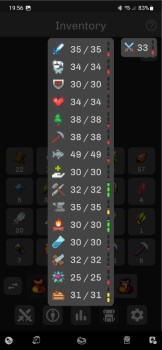
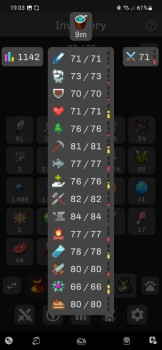
Finish up idle iktah text

diff --git a/_drafts/2023-10-27-idle-iktah-android-game.md b/_drafts/2023-10-27-idle-iktah-android-game.md
@@ -1,0 +1,103 @@
+---
+title: "Idle Iktah: An Android idle game that has become my obsession"
+author: Jake Lee
+layout: post
+image: /assets/images/2023/oct-games-banner.png
+tags:
+    - Android
+    - Gaming
+---
+
+Every couple of months, I publish an article with a few games I've enjoyed. This month is a little different because... I can't stop playing [Idle Iktah](https://play.google.com/store/apps/details?id=games.grounded.idleiktah), I haven't touched anything else! This is partially a review, partially a love letter.
+
+----
+
+**Update 27th Oct:** This entire review was written after playing the game for just 3 days (v1.0.0), and [published on Reddit](https://www.reddit.com/r/IdleIktah/comments/175out7/a_very_positive_review_of_the_game_after_3_days/). 2 weeks later, my feelings on it have only grown more positive! At the time of the review my stats were all mid-30s, now they are all mid-70s. Once they're all 99 I'll finally be able to escape!
+
+I'm happy to confirm that the game continues to get deeper and deeper as you progress, and the developer is extremely responsive on [Discord](https://discord.com/invite/nEp3rhmPTC). For example, a few feature suggestions in my original review have already been added to the game. It's also been a great help searching the Discord for more obscure items / quests.
+
+The game is [available on iOS](https://apps.apple.com/us/app/idle-iktah/id1631764038) [and Android](https://play.google.com/store/apps/details?id=games.grounded.idleiktah).
+
+---
+
+[Idle Iktah](https://play.google.com/store/apps/details?id=games.grounded.idleiktah) is a dangerous game: It's like RuneScape, but singleplayer and idle. Uh oh.
+
+## Review
+
+I spotted this game from an [r/incremental_games post](https://www.reddit.com/r/incremental_games/comments/173tjq0/idle_iktah_an_idle_rpg_set_in_the_pacific/), and I've been playing it almost constantly since then. It's RuneScape-inspired, but with plenty of different skills, different mechanics, different items, etc. 
+
+The basic gameplay is essentially choosing a skill, choosing what action / item to use, then pressing "Start". There are also battles, with critical hits, drop rates, food, tomes, etc. Whilst this gameplay is relatively simple, the very clean and focused UI as well as balanced game design allows for some deeply satisfying gameplay loops. Additionally, once you understand the UI, you can look at the XP / effects of any action even whilst your actions are happening in the background. 
+
+However, what really makes it stand out is how expertly new content is drip-fed to the player. I've tried Melvor Idle before, and it was all a bit overwhelming and "online", which just isn't what I'm interested in. Iktah cleverly only shows you the next couple of "locked" items / areas for each skill, so you never feel like you've barely started the game, even 10 minutes in.
+
+Speaking of skills, even these are not all revealed at the start. Whilst you do have access to "gathering" and "crafting" skills early on, multiple additional ones appear unexpectedly just as you're starting to finish one part of the content! Unlike many idle games, where you're just waiting for the chance to click the button / upgrade the machine / etc, Idle Iktah has a much more complex gameplay loop. Every skill has it's own unlocks and levels, with synergy between them, just like RuneScape. For example high fishing will catch better fish, which give more cooking xp, which help fighting harder monsters, etc.
+
+Whilst the discovery aspect of the game is excellently implemented, I am also very impressed by the complexity of the interactions between the skills. The complex relationships between skills means the game manages to catch the "lightning in the bottle" feeling that games like RuneScape and Skyrim gave me: having multiple things I am excited to do ASAP. 
+
+Instead of waiting until I have enough coins to upgrade something, I can mine some ore so I can smelt a bar so I can smith a pickaxe head so I can craft a pickaxe so I can mine ore faster. Except uh oh, that requires a higher crafting level! Time to hunt some monsters so I can get some leather so I can make some bags so I can.... you get the idea. 
+
+Just like with RuneScape, you'll often find yourself doing actions in bulk since they are good XP. For example, making 100 wooden chairs for the Carpentry XP. Unlike RuneScape though, even junk items have plenty of uses: They can be traded with traders that appear from time to time for rare shells (which are used to buy items *from* the traders), or they can be broken down into their "core" for use in Enchanting. 
+
+Iktah is very intentionally offline-only, and even the "Community" skill refers to your in-game local area! This is the only kind of game I enjoy, and I'm really happy the developer hasn't implemented any "clans", usually used to encourage players to spend more real money.
+
+I've been playing Idle Iktah pretty obsessively the last few days, and could write paragraphs more about it, but the final positive is the helpful notifications. Notifications can be customised for level-ups, new areas, new traders etc, and it's a great way to leave the game in the background until a bulk crafting job is done. Inside the game, crafted items / level-ups appear "over" whatever window you have open, ensuring you always know what is going on, even if you are deep inside a submenu.
+
+Idle Iktah has pretty good offline progress (50% unless doubling with ads for up to 24hr), however I had it open a lot and the battery drain is tiny, far less than a browser / video / most games.
+
+Finally, there is a [Discord](https://discord.com/invite/nEp3rhmPTC) (350+ members, friendly), [Twitter](https://twitter.com/idleiktah) (unused), and [Subreddit](https://www.reddit.com/r/IdleIktah/) (quiet, patch notes only).
+
+In terms of improvements, I'd love to see:
+
+* Statistics on how many X I've killed / created.
+* ~~The quest screen could show how far towards the unlock criteria (e.g. 4/10 kills).~~ Added!
+* ~~A "time left" for long jobs, to avoid me having to keep doing mental multiplication!~~ Added!
+* The ability to rename bags for easier categorisation.
+* More detailed help for the equipment screen. For example, my sword has a "sun" enchant on it... what does that do!?
+
+## Monetisation
+
+There are pretty standard optional adverts when you open the game, allowing you to double your offline earnings.
+
+Additionally, there is a shop where perks (e.g. XP booster, tomes for combat, etc) can be purchased, but none of them feel too overpowered. All are essentially time skips, and can be obtained through normal gameplay anyway. They're quite expensive, from £2 for 50x double attach speed tomes to £8 for 25x Master potion (1hr double XP). 
+
+I purchased a permanent advert removal for £5. This doubles all offline earnings (as if you'd watched an ad), and provides a daily Mastery potion, but I primarily purchased it to support the developer's excellent work.
+
+## Tips
+
+As mentioned, the game does an amazing job of giving you information and guidance, so I won't mention anything covered within the game. I'd also recommend checking [the Discord](https://discord.com/invite/nEp3rhmPTC) for more.
+
+* **Always make sure you are doing *something***. Whilst figuring out a complex crafting process, have some woodcutting happening in the background.
+* **Perform as many operations on an item as you can**. The more processes items go through, the more likely they are to earn you high XP or be worth a lot to traders. For example, instead of selling wood, process it into planks then furniture first. Or, instead of selling a gathered resource, make a potion that can then be used for an enchant. This takes much longer, but earns you more XP and resources than instantly trading would.
+* **Prioritise completing quests**. The tasks (accessible via the skill select menu) give great rewards, and often unlock new content.
+* **Turn potion autodrink on**. Potions can be set to autodrink via the "infinity" symbol when opening them in the inventory. This only triggers when you are actively training that skill, and you have actively drunk the first potion. It's safe to leave it on for all potions you want to use.
+* **Turquoise can be used to double rare shells**. At level 50ish Alchemy, you can create a "Headhunter potion" for 1 rare shell & 1 turquoise. Whilst turquoise sells to traders for 0.15 shells, a headhunter potion sells for 2 shells! This means you can essentially convert all turquoise into rare shells by creating the potion and selling.
+* **Inventory space is tight**. You'll probably learn this very early on, but inventory space is the main enemy until you can craft big bags! Some ways to utilise it as efficiently as possible are:
+    * **Be organised**. If you have junk everywhere, you'll never have any space. Use additional bags, have a system. For example, I use "Main bag", "Fishing / woodcutting", "Mining", "Potions / to sell".
+    * **Train crafting**. Crafting lets you create additional mini-inventories, and eventually (Lev 20-30+) you can create specialised inventories (e.g. for rings or food). I'm hoping there's plenty more of these to unlock.
+    * **Progress things**. Instead of leaving 30 level 1 fish around, cook them and use them in combat! It tidies up your inventory without having to delete the items. This applies to crafting ingredients, ores, fish, wood, etc.
+* **Items have rarities**. If you open an item in your inventory, some may have a coloured border. This gives a good indicator of whether an item actually matters, which can be very hard to work out when it seems to have no use. For example, a "Grasshopper" has no border, so it's probably fine to just use or trade it. However, an "Ancient coin" has an orange border, so I should hang onto it until I work out what it's for. The rarity seems to be the standard scale:
+    * Common (White)
+    * Uncommon (Green)
+    * Rare (Blue)
+    * Epic (Purple)
+    * Legendary (Orange)
+* **Gather overnight**. Perhaps obvious, but don't do any crafting overnight in case you run out of materials. Do tasks like fishing or woodcutting that have no limits.
+* **Everything has value**. All traders will buy all items (except the very basic resources). However, cheap items like "Bluegill" fish will require 834(!) in exchange for a single rare shell! As such, items should never be deleted if possible, and trading in resources you have no use for (e.g. wooden chairs) is a good way to earn shells for the trader's items.
+* **You are semi-immortal**. So long as you don't get one-hit, you can survive any damage since your character can eat multiple fish per turn. This means a fish that heals 1 is just a useful as one that heals 10, so long as you don't run out!
+* **Hang on to rarer things**. Since you level skills separately, you'll pretty often gain a non-common item that seems to have no purpose. Hang onto it, you'll wish you had it later on!
+* **Claim Mastery Potion ASAP**. If you've paid for the ad-free experience, your Mastery Potion is available every 20 hours. This timer starts when you claim it, so make sure to do this as soon as it is available.
+* **Partner / trader preview is scrollable**. If you use a dugout to force a specific trader to appear, you can see 4 of their items as a preview. This can actually be scrolled down to see ALL their items!
+
+## Screenshots
+
+There are 12(!) skills in the game, plus combat, so the screenshots below only show a little of the game! The skills generally work similarly, so the Crafting screenshot is representative.
+
+| Crafting Skill | Battle | Skills (Inventory in background) |
+| --- | --- | --- |
+| [![](/assets/images/2023/oct-iktah-crafting-thumbnail.jpg)](/assets/images/2023/oct-iktah-crafting.jpg) | [![](/assets/images/2023/oct-iktah-combat-thumbnail.jpg)](/assets/images/2023/oct-iktah-combat.jpg) | [![](/assets/images/2023/oct-iktah-skills-thumbnail.jpg)](/assets/images/2023/oct-iktah-skills.jpg)|  
+
+| Community Skill | Teachings | Outfits |
+| --- | --- | --- |
+| [![](/assets/images/2023/oct-iktah-community-thumbnail.jpg)](/assets/images/2023/oct-iktah-community.jpg) | [![](/assets/images/2023/oct-iktah-teachings-thumbnail.jpg)](/assets/images/2023/oct-iktah-teachings.jpg) | [![](/assets/images/2023/oct-iktah-outfits-thumbnail.jpg)](/assets/images/2023/oct-iktah-outfits.jpg) 
+
+One last time, here's the Play Store link for Idle Iktah: https://play.google.com/store/apps/details?id=games.grounded.idleiktah

diff --git a/_drafts/2023-10-20-oct-android-game-reviews.md b/_drafts/2023-10-20-oct-android-game-reviews.md
@@ -1,5 +1,5 @@
 ---
-title: "3 indie Android games I've loved recently: Idle Iktah 📲"
+title: "Oct Android games 📲"
 author: Jake Lee
 layout: post
 image: /assets/images/2023/oct-games-banner.png
@@ -7,89 +7,6 @@ tags:
     - Android
     - Gaming
 ---
-
-intro
-
-The games are in descending order of "fun", and might contain mild spoilers:
-
-## #1: [Idle Iktah](https://play.google.com/store/apps/details?id=games.grounded.idleiktah)
-
-Idle Iktah is a dangerous game: It's like RuneScape, but singleplayer and idle. Uh oh.
-
-### Review
-
-I spotted this game from an [r/incremental_games post](https://www.reddit.com/r/incremental_games/comments/173tjq0/idle_iktah_an_idle_rpg_set_in_the_pacific/) a few days ago, and I've been playing it almost constantly since then. It's RuneScape-inspired, but with plenty of different skills, different mechanics, different items, etc. 
-
-The basic gameplay is essentially choosing a skill, choosing what action / item to use, then pressing "Start". There are also battles, with critical hits, drop rates, food, tomes, etc. Whilst this gameplay is relatively simple, the very clean and focused UI as well as balanced game design allows for some deeply satisfying gameplay loops. Additionally, once you understand the UI, you can look at the XP / effects of any action even whilst your actions are happening in the background. 
-
-However, what really makes it stand out is how expertly new content is drip-fed to the player. I've tried Melvor Idle before, and it was all a bit overwhelming and "online", which just isn't what I'm interested in. Iktah cleverly only shows you the next couple of "locked" items / areas for each skill, so you never feel like you've barely started the game, even 10 minutes in.
-
-Speaking of skills, even these are not all revealed at the start. Whilst you do have access to "gathering" and "crafting" skills early on, multiple additional ones appear unexpectedly just as you're starting to finish one part of the content! Unlike many idle games, where you're just waiting for the chance to click the button / upgrade the machine / etc, Idle Iktah has a much more complex gameplay loop. Every skill has it's own unlocks and levels, with synergy between them, just like RuneScape. For example high fishing will catch better fish, which give more cooking xp, which help fighting harder monsters, etc.
-
-Whilst the discovery aspect of the game is excellently implemented, I am also very impressed by the complexity of the interactions between the skills. The complex relationships between skills means the game manages to catch the "lightning in the bottle" feeling that games like RuneScape and Skyrim gave me: having multiple things I am excited to do ASAP. 
-
-Instead of waiting until I have enough coins to upgrade something, I can mine some ore so I can smelt a bar so I can smith a pickaxe head so I can craft a pickaxe so I can mine ore faster. Except uh oh, that requires a higher crafting level! Time to hunt some monsters so I can get some leather so I can make some bags so I can.... you get the idea. 
-
-Just like with RuneScape, you'll often find yourself doing actions in bulk since they are good XP. For example, making 100 wooden chairs for the Carpentry XP. Unlike RuneScape though, even junk items have plenty of uses: They can be traded with traders that appear from time to time for rare shells (which are used to buy items *from* the traders), or they can be broken down into their "core" for use in Enchanting. 
-
-Iktah is very intentionally offline-only, and even the "Community" skill refers to your in-game local area! This is the only kind of game I enjoy, and I'm really happy the developer hasn't implemented any "clans", usually used to encourage players to spend more real money.
-
-I've been playing Idle Iktah pretty obsessively the last few days, and could write paragraphs more about it, but the final positive is the helpful notifications. Notifications can be customised for level-ups, new areas, new traders etc, and it's a great way to leave the game in the background until a bulk crafting job is done. Inside the game, crafted items / level-ups appear "over" whatever window you have open, ensuring you always know what is going on, even if you are deep inside a submenu.
-
-Idle Iktah has pretty good offline progress (50% unless doubling with ads for up to 24hr), however I had it open a lot and the battery drain is tiny, far less than a browser / video / most games.
-
-Finally, there is a [Discord](https://discord.com/invite/nEp3rhmPTC) (350+ members, friendly), [Twitter](https://twitter.com/idleiktah) (unused), and [Subreddit](https://www.reddit.com/r/IdleIktah/) (quiet, patch notes only).
-
-In terms of improvements, I'd love to see:
-
-* Statistics on how many X I've killed / created.
-* The quest screen could show how far towards the unlock criteria (e.g. 4/10 kills).
-* A "time left" for long jobs, to avoid me having to keep doing mental multiplication!
-* The ability to rename bags for easier categorisation.
-* More detailed help for the equipment screen. For example, my sword has a "sun" enchant on it... what does that do!?
-
-
-### Monetisation
-
-There are pretty standard optional adverts when you open the game, allowing you to double your offline earnings.
-
-Additionally, there is a shop where perks (e.g. XP booster, tomes for combat, etc) can be purchased, but none of them feel too overpowered. All are essentially time skips, and can be obtained through normal gameplay anyway. They're quite expensive, from £2 for 50x double attach speed tomes to £8 for 25x Master potion (1hr double XP). 
-
-I purchased a permanent advert removal for £5. This doubles all offline earnings (as if you'd watched an ad), and provides a daily Mastery potion, but I primarily purchased it to support the developer's excellent work.
-
-### Tips
-
-As mentioned, the game does an amazing job of giving you information and guidance, so I won't mention anything covered within the game. I'd also recommend checking [the Discord](https://discord.com/invite/nEp3rhmPTC) for more.
-
-* **Always make sure you are doing *something***. Whilst figuring out a complex crafting process, have some woodcutting happening in the background.
-* **Perform as many operations on an item as you can**. The more processes items go through, the more likely they are to earn you high XP or be worth a lot to traders. For example, instead of selling wood, process it into planks then furniture first. Or, instead of selling a gathered resource, make a potion that can then be used for an enchant. This takes much longer, but earns you more XP and resources than instantly trading would.
-* **Prioritise completing quests**. The tasks (accessible via the skill select menu) give great rewards, and often unlock new content.
-* **Turn potion autodrink on**. Potions can be set to autodrink via the "infinity" symbol when opening them in the inventory. This only triggers when you are actively training that skill, and you have actively drunk the first potion. It's safe to leave it on for all potions you want to use.
-* **Turquoise can be used to double rare shells**. At level 50ish Alchemy, you can create a "Headhunter potion" for 1 rare shell & 1 turquoise. Whilst turquoise sells to traders for 0.15 shells, a headhunter potion sells for 2 shells! This means you can essentially convert all turquoise into rare shells by creating the potion and selling.
-* **Inventory space is tight**. You'll probably learn this very early on, but inventory space is the main enemy until you can craft big bags! Some ways to utilise it as efficiently as possible are:
-    * **Be organised**. If you have junk everywhere, you'll never have any space. Use additional bags, have a system. For example, I use "Main bag", "Fishing / woodcutting", "Mining", "Potions / to sell".
-    * **Train crafting**. Crafting lets you create additional mini-inventories, and eventually (Lev 20-30+) you can create specialised inventories (e.g. for rings or food). I'm hoping there's plenty more of these to unlock.
-    * **Progress things**. Instead of leaving 30 level 1 fish around, cook them and use them in combat! It tidies up your inventory without having to delete the items. This applies to crafting ingredients, ores, fish, wood, etc.
-* **Items have rarities**. If you open an item in your inventory, some may have a coloured border. This gives a good indicator of whether an item actually matters, which can be very hard to work out when it seems to have no use. For example, a "Grasshopper" has no border, so it's probably fine to just use or trade it. However, an "Ancient coin" has an orange border, so I should hang onto it until I work out what it's for. The rarity seems to be the standard scale:
-    * Common (White)
-    * Uncommon (Green)
-    * Rare (Blue)
-    * Epic (Purple)
-    * Legendary (Orange)
-* **Gather overnight**. Perhaps obvious, but don't do any crafting overnight in case you run out of materials. Do tasks like fishing or woodcutting that have no limits.
-* **Everything has value**. All traders will buy all items (except the very basic resources). However, cheap items like "Bluegill" fish will require 834(!) in exchange for a single rare shell! As such, items should never be deleted if possible, and trading in resources you have no use for (e.g. wooden chairs) is a good way to earn shells for the trader's items.
-* **You are semi-immortal**. So long as you don't get one-hit, you can survive any damage since your character can eat multiple fish per turn. This means a fish that heals 1 is just a useful as one that heals 10, so long as you don't run out!
-* **Hang on to rarer things**. Since you level skills separately, you'll pretty often gain a non-common item that seems to have no purpose. Hang onto it, you'll wish you had it later on!
-* **Claim Mastery Potion ASAP**. If you've paid for the ad-free experience, your Mastery Potion is available every 20 hours. This timer starts when you claim it, so make sure to do this as soon as it is available.
-* **Partner / trader preview is scrollable**. If you use a dugout to force a specific trader to appear, you can see 4 of their items as a preview. This can actually be scrolled down to see ALL their items!
-
-### Screenshots
-
-There are 12(!) skills in the game, plus combat, so the screenshots below only show a little of the game! The skills generally work similarly, so the Crafting screenshot is representative.
-
-| Crafting | Battle | Skills (Inventory in background) |
-| --- | --- | --- |
-| [![](/assets/images/2023/oct-iktah-crafting-thumbnail.jpg)](/assets/images/2023/oct-iktah-crafting.jpg) | [![](/assets/images/2023/oct-iktah-combat-thumbnail.jpg)](/assets/images/2023/oct-iktah-combat.jpg) | [![](/assets/images/2023/oct-iktah-skills-thumbnail.jpg)](/assets/images/2023/oct-iktah-skills.jpg)|  
 
 
 ## Update on previous games

diff --git a/_drafts/2023-10-26-best-heist-footage.md b/_drafts/2023-10-26-best-heist-footage.md
@@ -1,0 +1,16 @@
+---
+title: 
+author: Jake Lee
+layout: post
+image: /assets/images/2023/
+tags:
+    - 
+---
+
+
+## Heister's perspective
+
+## Heistee's perspective
+
+### South african van heist
+[![](/assets/images/2023/example_thumbnail.png)](/assets/images/2023/example.png)
